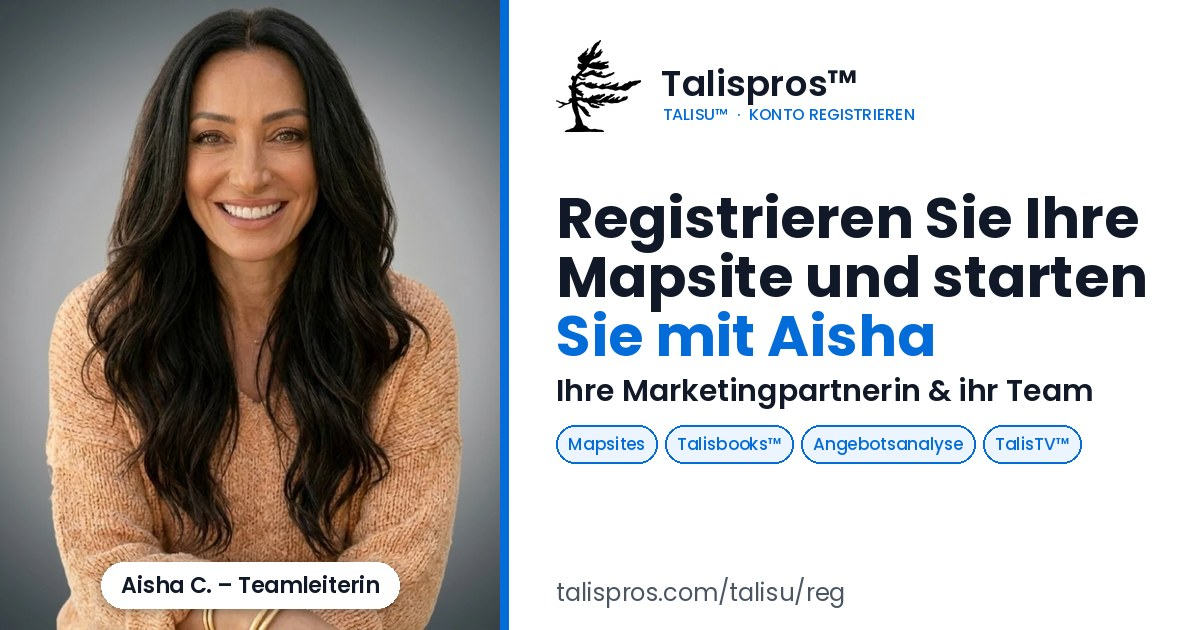
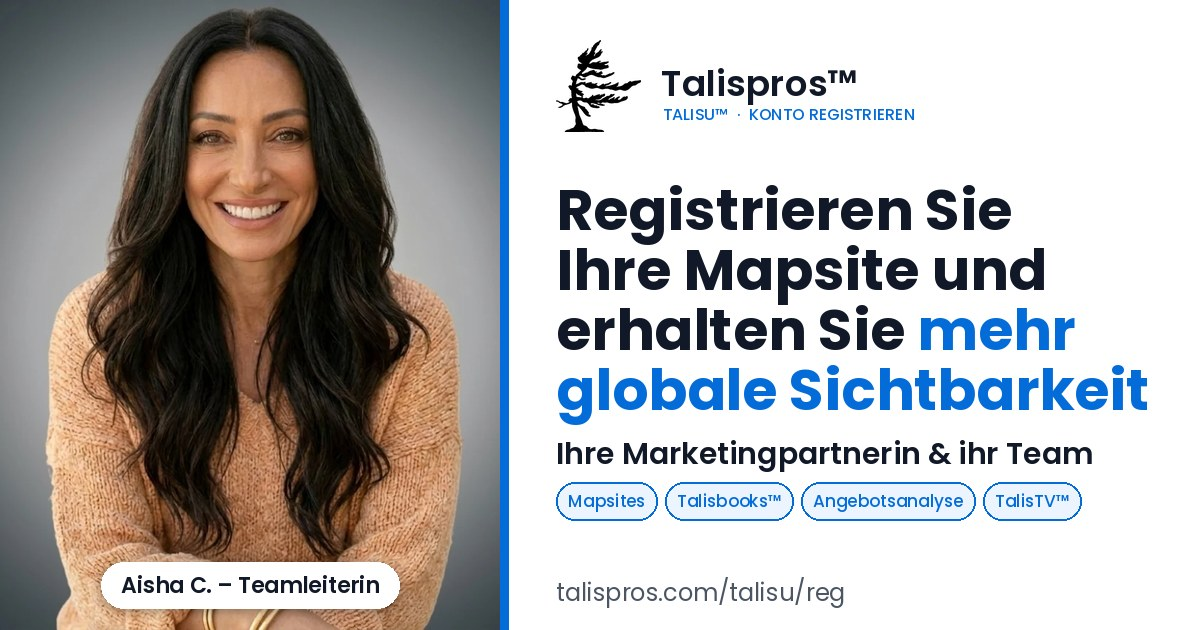
fix(talisu/reg): headline 'Register your Mapsite and get increased global exposure'
Update the EN/DE share cards and og/SEO title, description and alt text
to the global-exposure message (Aisha still named in the description).

Changed region(s): [[0.4625, 0.3016, 0.9558, 0.8444]]

diff --git a/lib/i18n/dictionaries/de.ts b/lib/i18n/dictionaries/de.ts
@@ -778,12 +778,12 @@ export const de: Dictionary = {
         "Häufig gestellte Fragen zu Talispros™, Mapsites und TalisU™.",
     },
     talisuRegister: {
-      title: "Registrieren Sie Ihre Talispros™ Mapsite und starten Sie mit Aisha | TalisU™",
+      title: "Registrieren Sie Ihre Talispros™ Mapsite und erhalten Sie mehr globale Sichtbarkeit | TalisU™",
       description:
-        "Registrieren Sie Ihr TalisU™-Konto und starten Sie mit Aisha C. und ihrem Team: Mapsites, Talisbooks™ (TEB), Angebotsanalyse (TVA) und TalisTV™ (TTV) für Ihre immobiliennahen Marketinginitiativen.",
+        "Registrieren Sie Ihre Mapsite und erhalten Sie mehr globale Sichtbarkeit für Ihr immobiliennahes Marketing. Aisha C. und ihr Team unterstützen Sie mit Mapsites, Talisbooks™ (TEB), Angebotsanalyse (TVA) und TalisTV™ (TTV).",
       ogImage: "/og/talisu-reg-de.jpg",
       ogImageAlt:
-        "Aisha C., Teamleiterin, mit dem Talispros™-Baumlogo: Registrieren Sie Ihre Mapsite und starten Sie mit Aisha",
+        "Aisha C., Teamleiterin, mit dem Talispros™-Baumlogo: Registrieren Sie Ihre Mapsite und erhalten Sie mehr globale Sichtbarkeit",
     },
     talisuEngage: {
       title: "Webster und sein Anpassungsteam beauftragen | TalisU™",

diff --git a/lib/i18n/dictionaries/en.ts b/lib/i18n/dictionaries/en.ts
@@ -563,12 +563,12 @@ export const en = {
         "Frequently asked questions about Talispros™, Mapsites, and TalisU™.",
     },
     talisuRegister: {
-      title: "Register Your Talispros™ Mapsite and Get Started with Aisha | TalisU™",
+      title: "Register Your Talispros™ Mapsite and Get Increased Global Exposure | TalisU™",
       description:
-        "Register your TalisU™ account and get started with Aisha C. and her team: Mapsites, Talisbooks™ (TEB), listing analysis (TVA) and TalisTV™ (TTV) for your real estate adjacent marketing initiatives.",
+        "Register your Mapsite and get increased global exposure for your real estate adjacent marketing. Aisha C. and her team support you with Mapsites, Talisbooks™ (TEB), listing analysis (TVA) and TalisTV™ (TTV).",
       ogImage: "/og/talisu-reg-en.jpg",
       ogImageAlt:
-        "Aisha C., Team Leader, with the Talispros™ tree logo: Register your Mapsite and get started with Aisha",
+        "Aisha C., Team Leader, with the Talispros™ tree logo: Register your Mapsite and get increased global exposure",
     },
     talisuEngage: {
       title: "Engage Webster and His Customization Team | TalisU™",

diff --git a/__tests__/talisu-reg-og.test.ts b/__tests__/talisu-reg-og.test.ts
@@ -12,6 +12,18 @@ describe("/talisu/reg share metadata", () => {
         existsSync(path.join(process.cwd(), "public", m.ogImage)),
       ).toBe(true);
       expect(m.title).not.toMatch(/Mapsite™/);
+      expect(m.title).toBe(
+        locale === "de"
+          ? "Registrieren Sie Ihre Talispros™ Mapsite und erhalten Sie mehr globale Sichtbarkeit | TalisU™"
+          : "Register Your Talispros™ Mapsite and Get Increased Global Exposure | TalisU™",
+      );
+      expect(m.description).toMatch(
+        locale === "de" ? /mehr globale Sichtbarkeit/ : /increased global exposure/,
+      );
+      expect(m.description).toMatch(/Aisha C\./);
+      expect(m.ogImageAlt).toMatch(
+        locale === "de" ? /mehr globale Sichtbarkeit/ : /increased global exposure/,
+      );
       expect(m.description).not.toMatch(/USD|Mapsite™/);
       const meta = createTalisUMetadata({
         title: m.title,
